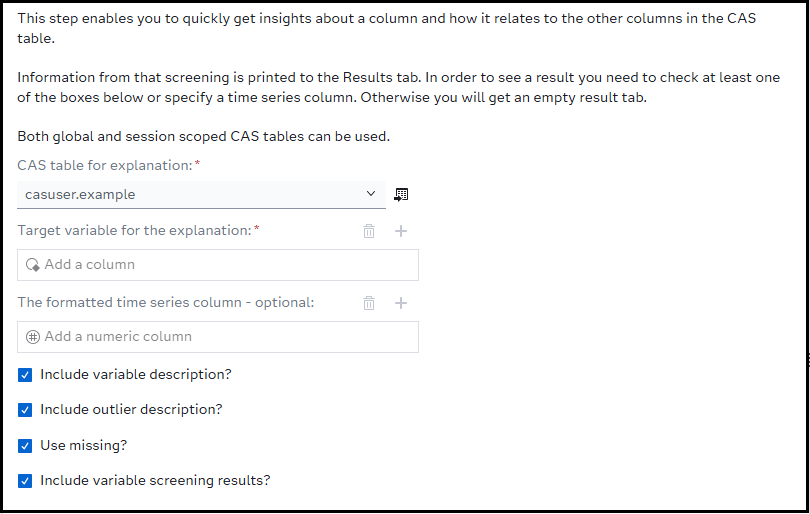
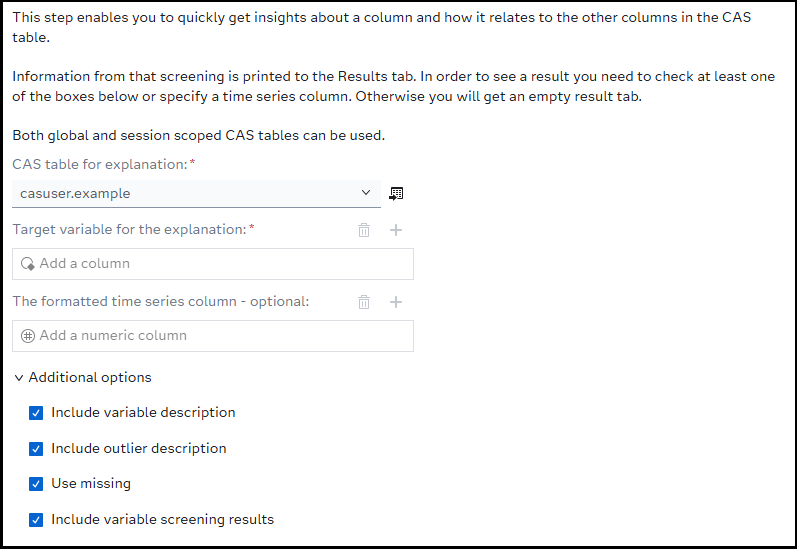
Implement feedback

Changed region(s): [[0.0, 0.0, 1.0, 1.0], [0.4517, 0.5292, 0.5119, 0.5914]]

diff --git a/VA - Get Column Explanation/README.md b/VA - Get Column Explanation/README.md
@@ -2,7 +2,7 @@
 
 ## Description
 
-The **VA - Get Column Explanation** custom steps performs an explanation of a column in a CAS table using the /insights/explain endpoint.
+The **VA - Get Column Explanation** custom steps performs an explanation of a column in a CAS table using the /insights/explain endpoint that is provided by SAS Visual Analytics.
 
 ## User Interface
 
@@ -19,6 +19,11 @@ Tested on Viya version Stable 2025.08
 Find a demonstration of this step in this YouTube video: [VA - Get Column Explanation](https://youtu.be/ICeu-6fFt5k).
 
 ## Change Log
+
+* Version: 1.1 (25SEP2025)
+  -   Move filename to be temporary
+  -   Move additional options to a section
+  -   Update the About page and README
 
 * Version 1.0 (13SEP2025)
     * Initial version
